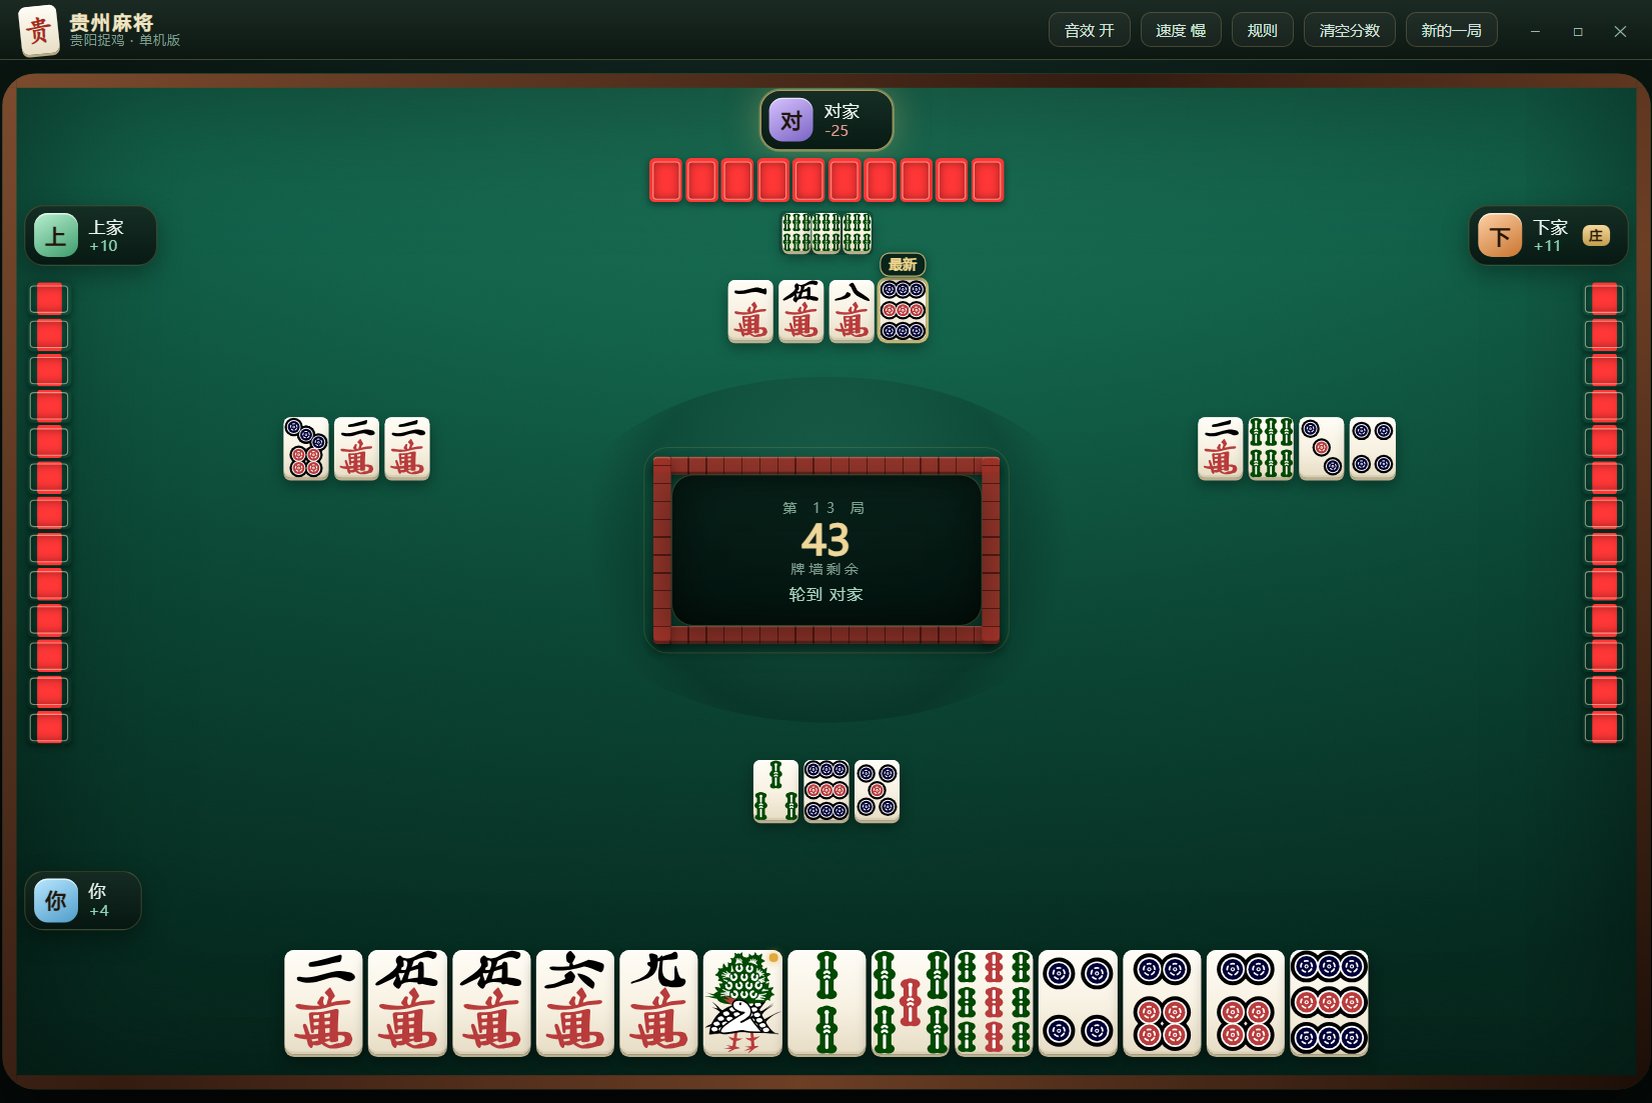
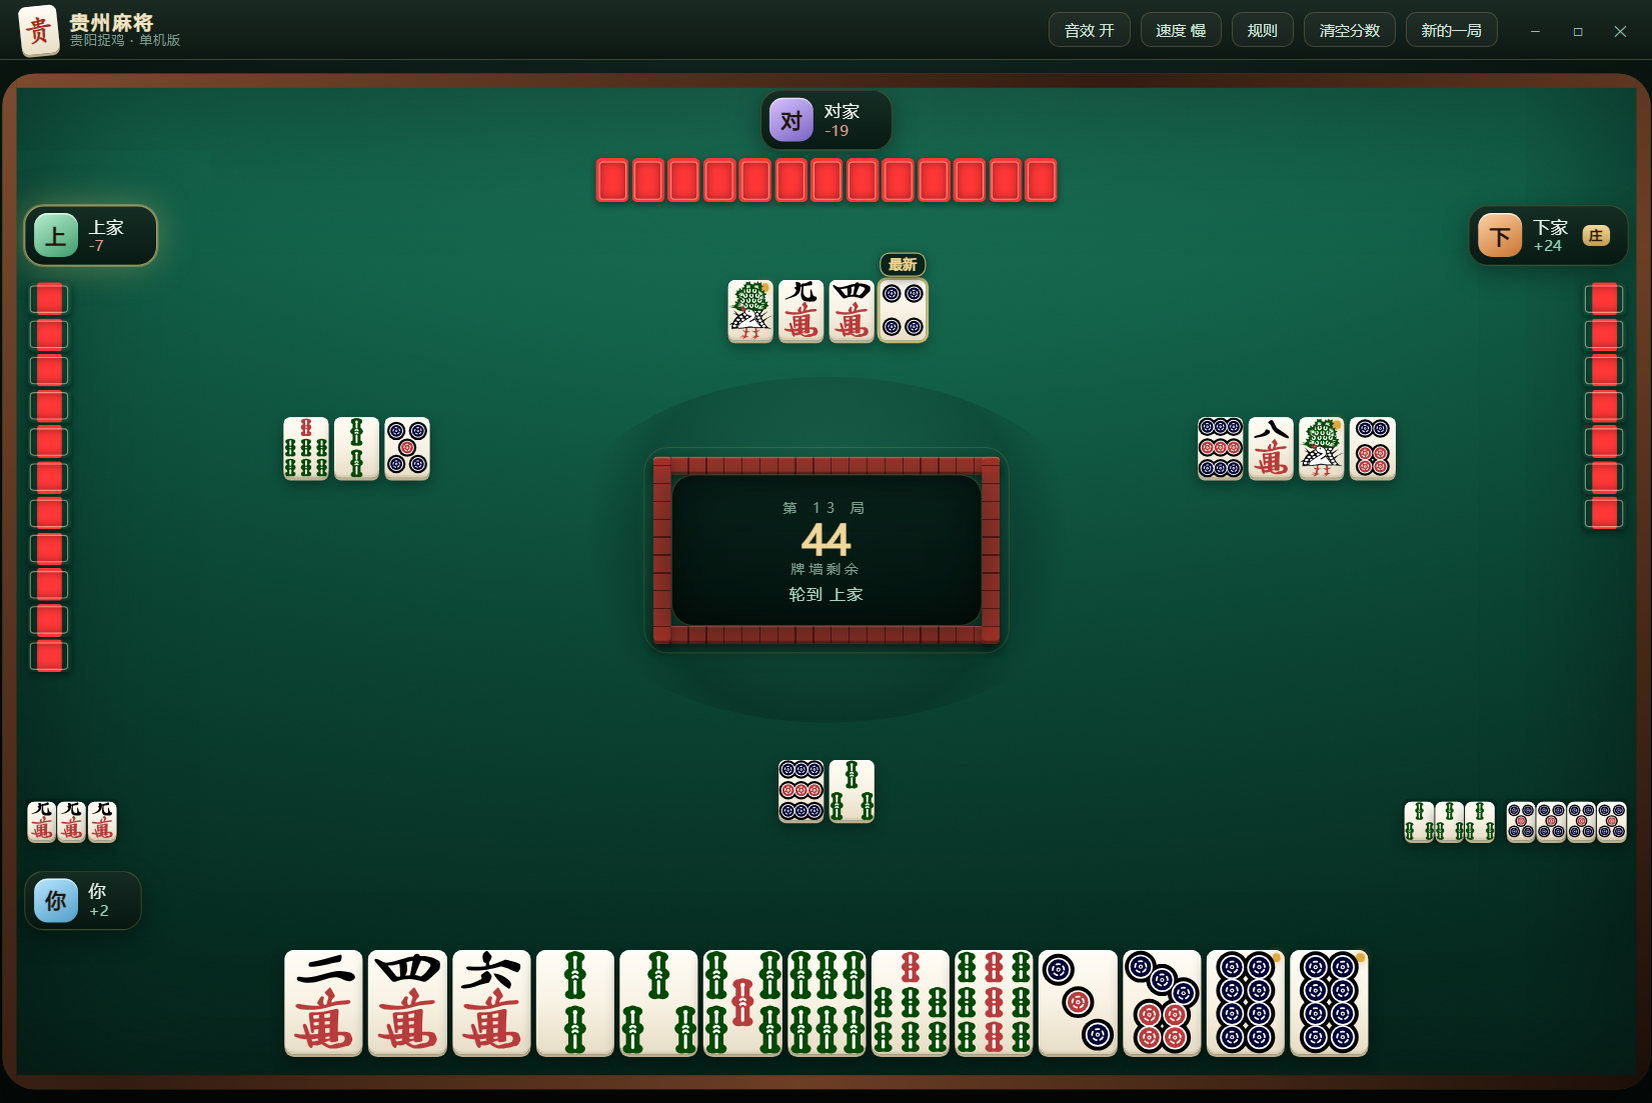
feat: 听牌张按手牌样式展示并标注可见剩张

diff --git a/src/css/style.css b/src/css/style.css
@@ -159,28 +159,8 @@ html, body {
 .seat-bottom .melds { position: absolute; right: 18px; bottom: 118px; }
 .seat-bottom .hand-main { position: absolute; left: 50%; transform: translateX(-50%); bottom: 26px; }
 .seat-bottom .ting-status {
-  position: absolute;
-  left: 16px;
-  bottom: 158px;
-  display: flex;
-  align-items: center;
-  flex-wrap: wrap;
-  gap: 5px;
-  max-width: 420px;
-  padding: 6px 9px;
-  border-radius: 9px;
-  background: rgba(5, 20, 14, 0.88);
-  border: 1px solid rgba(231, 200, 120, 0.3);
-  box-shadow: 0 5px 14px rgba(0, 0, 0, 0.3);
-  z-index: 18;
+  display: none;
 }
-.seat-bottom .ting-status.hidden { display: none; }
-.ting-title { color: #ffdf9b; font-size: 11px; font-weight: 700; white-space: nowrap; }
-.ting-waits { display: inline-flex; flex-wrap: wrap; gap: 4px; }
-.ting-wait { display: inline-flex; align-items: center; gap: 3px; color: #d5e8dc; font-size: 10.5px; white-space: nowrap; }
-.ting-wait .face { position: static; width: 17px; height: 23px; display: block; }
-.ting-wait b { color: #9fe0b6; font-size: 10px; }
-.ting-total { color: #9db8aa; font-size: 10.5px; white-space: nowrap; }
 .seat-left { left: 12px; top: 96px; width: 320px; height: 470px; }
 .seat-right { right: 12px; top: 96px; width: 320px; height: 470px; }
 .seat-left .plate { position: absolute; left: 4px; top: 0; }
@@ -340,6 +320,77 @@ html, body {
 }
 .hand-main .tile.drawn { margin-left: 12px; }
 .hand-main .tile.dimmed { opacity: 0.45; }
+
+/* 听牌张：用手牌样式排在右侧，角标是可见剩张 */
+.ting-sep {
+  position: relative;
+  width: 26px;
+  align-self: stretch;
+  margin: 2px 4px 8px;
+}
+.ting-sep::before {
+  content: "";
+  position: absolute;
+  left: 50%;
+  top: 6px;
+  bottom: 6px;
+  width: 1px;
+  background: linear-gradient(180deg, transparent, rgba(231, 200, 120, 0.55), transparent);
+}
+.ting-sep::after {
+  content: "听";
+  position: absolute;
+  left: 50%;
+  top: 50%;
+  transform: translate(-50%, -50%);
+  padding: 3px 4px;
+  border-radius: 6px;
+  background: rgba(6, 18, 13, 0.94);
+  border: 1px solid rgba(231, 200, 120, 0.45);
+  color: #e7c878;
+  font: 700 12px/1 KaiTi, STKaiti, serif;
+}
+.ting-tile {
+  width: 48px;
+  height: 64px;
+  border-radius: 6px;
+  cursor: default;
+  box-shadow: 0 0 0 2px rgba(255, 214, 130, 0.6), 0 6px 14px rgba(0, 0, 0, 0.4), inset 0 1px 0 #fff;
+}
+.ting-tile::before {
+  content: "";
+  position: absolute;
+  inset: 0;
+  border-radius: inherit;
+  box-shadow: inset 0 0 14px rgba(255, 196, 90, 0.3);
+  pointer-events: none;
+}
+.ting-count {
+  position: absolute;
+  right: -5px;
+  bottom: -7px;
+  min-width: 18px;
+  height: 18px;
+  padding: 0 4px;
+  border-radius: 9px;
+  background: rgba(8, 20, 14, 0.96);
+  border: 1px solid rgba(231, 200, 120, 0.75);
+  color: #ffdc93;
+  font: 700 10.5px/16px "Microsoft YaHei", sans-serif;
+  text-align: center;
+  box-shadow: 0 2px 6px rgba(0, 0, 0, 0.45);
+}
+.ting-more {
+  align-self: center;
+  margin-left: 8px;
+  padding: 3px 8px;
+  border-radius: 8px;
+  background: rgba(8, 20, 14, 0.85);
+  border: 1px solid rgba(231, 200, 120, 0.35);
+  color: #e7c878;
+  font-size: 11px;
+  white-space: nowrap;
+}
 
 /* ---------------- 牌河 ---------------- */
 

diff --git a/src/js/ui.js b/src/js/ui.js
@@ -148,7 +148,7 @@
     document.querySelectorAll('.seat').forEach((seat) => {
       const id = +seat.dataset.seat;
       if (id === 0) {
-        seat.innerHTML = '<div class="plate"></div><div class="melds"></div><div class="ting-status hidden"></div><div class="hand-main"></div>';
+        seat.innerHTML = '<div class="plate"></div><div class="melds"></div><div class="hand-main"></div>';
       } else {
         seat.innerHTML = '<div class="plate"></div><div class="hand"></div><div class="melds"></div>';
       }
@@ -170,7 +170,6 @@
     renderSeats();
     renderRivers();
     renderHand();
-    renderTingStatus();
     renderCenter();
     renderActions();
     renderActive();
@@ -200,10 +199,28 @@
       if (i >= 0) { hand.splice(i, 1); drawn = pl.justDrawn; }
     }
     const canPlay = !!(awaiting && awaiting.kind === 'discard' && awaiting.player === 0);
-    const html = hand.map((t) => faceHtml(t, canPlay ? 'playable' : '')).join('') +
+    let html = hand.map((t) => faceHtml(t, canPlay ? 'playable' : '')).join('') +
       (drawn != null ? faceHtml(drawn, 'drawn' + (canPlay ? ' playable' : '')) : '');
+    // 听牌：按手牌样式排在右侧，每张角上标可见剩张
+    if (drawn == null) html += tingTilesHtml();
     setHtml(node, html);
     node.classList.toggle('my-turn', canPlay);
+  }
+
+  /** 听牌张（手牌样式 + 剩余张数角标），最多展示 4 张，其余用 +N */
+  function tingTilesHtml() {
+    const ting = game.tingOf(0);
+    if (!ting || !ting.tiles.length) return '';
+    const visible = visibleCounts();
+    const waits = ting.tiles
+      .map((tile) => ({ tile, left: Math.max(0, 4 - visible[tile]) }))
+      .sort((a, b) => a.tile - b.tile);
+    const shown = waits.slice(0, 4);
+    const rest = waits.length - shown.length;
+    const tiles = shown.map((wait) =>
+      `<div class="tile ting-tile" title="${TN(wait.tile)} 可见剩 ${wait.left} 张">${T.face(wait.tile)}<span class="ting-count">${wait.left}</span></div>`
+    ).join('');
+    return `<div class="ting-sep"></div>${tiles}${rest > 0 ? `<span class="ting-more">+${rest}</span>` : ''}`;
   }
 
   function renderRivers() {

diff --git a/electron/main.js b/electron/main.js
@@ -110,6 +110,29 @@ async function capture() {
       })(); true;
     `);
     await sleep(900);
+  } else if (shotMode === 'ting') {
+    await w.webContents.executeJavaScript(`
+      (function(){
+        const g = window.__game;
+        g.speed = 0.00001;
+        g.askDiscard = function(){ return new Promise(function(){}); };
+      })(); true;
+    `);
+    await sleep(700);
+    await w.webContents.executeJavaScript(`
+      (function(){
+        const g = window.__game;
+        g.phase = 'playing';
+        g.turn = 2;
+        g.players[0].hand = [0,1,2,3,4,5,6,7,8,12,13,18,18];
+        g.players[0].melds = [];
+        g.players[0].discards = [];
+        g.players[0].justDrawn = null;
+        g.awaiting = null;
+        g.emitState();
+      })(); true;
+    `);
+    await sleep(700);
   } else if (shotMode === 'tip') {
     await w.webContents.executeJavaScript(`
       (function(){

diff --git a/README.md b/README.md
@@ -21,7 +21,7 @@ npm start          # 或者双击 start.bat
 ## 怎么玩
 
 - **出牌**：轮到你时，点手牌里的任意一张就打出去（悬停会抬起）。
-- **听牌提示**：鼠标停在一张手牌上，会显示「打这张 → 听什么、可见还剩几张」，并把手牌里能胡的牌高亮（金边）。
+- **听牌提示**：叫牌后，手牌右侧会以**手牌样式**列出所听的每一种牌，角标是这种牌的**可见剩余张数**（最多列 4 种，其余显示 `+N`）；鼠标停在一张手牌上还会显示「打这张 → 听什么、可见还剩几张」，并把手牌里能胡的牌高亮（金边）。
 - **碰 / 杠 / 胡**：别人打牌后如果可操作，底部会明确提示「谁打出哪张」，按钮也标出牌名；牌河里最新弃牌会高亮并标注「可碰这张」。提示不会自动消失，直到你选择操作或点「过」（`Esc` 也可以过）。
 - **暗杠 / 补杠**：在自己回合、出牌之前，按钮出现在同一位置。
 - **速度**：右上角「速度 慢 / 中 / 快」切换电脑出牌节奏（默认「慢」，约 1.4 秒一手；嫌慢可以调快）。
